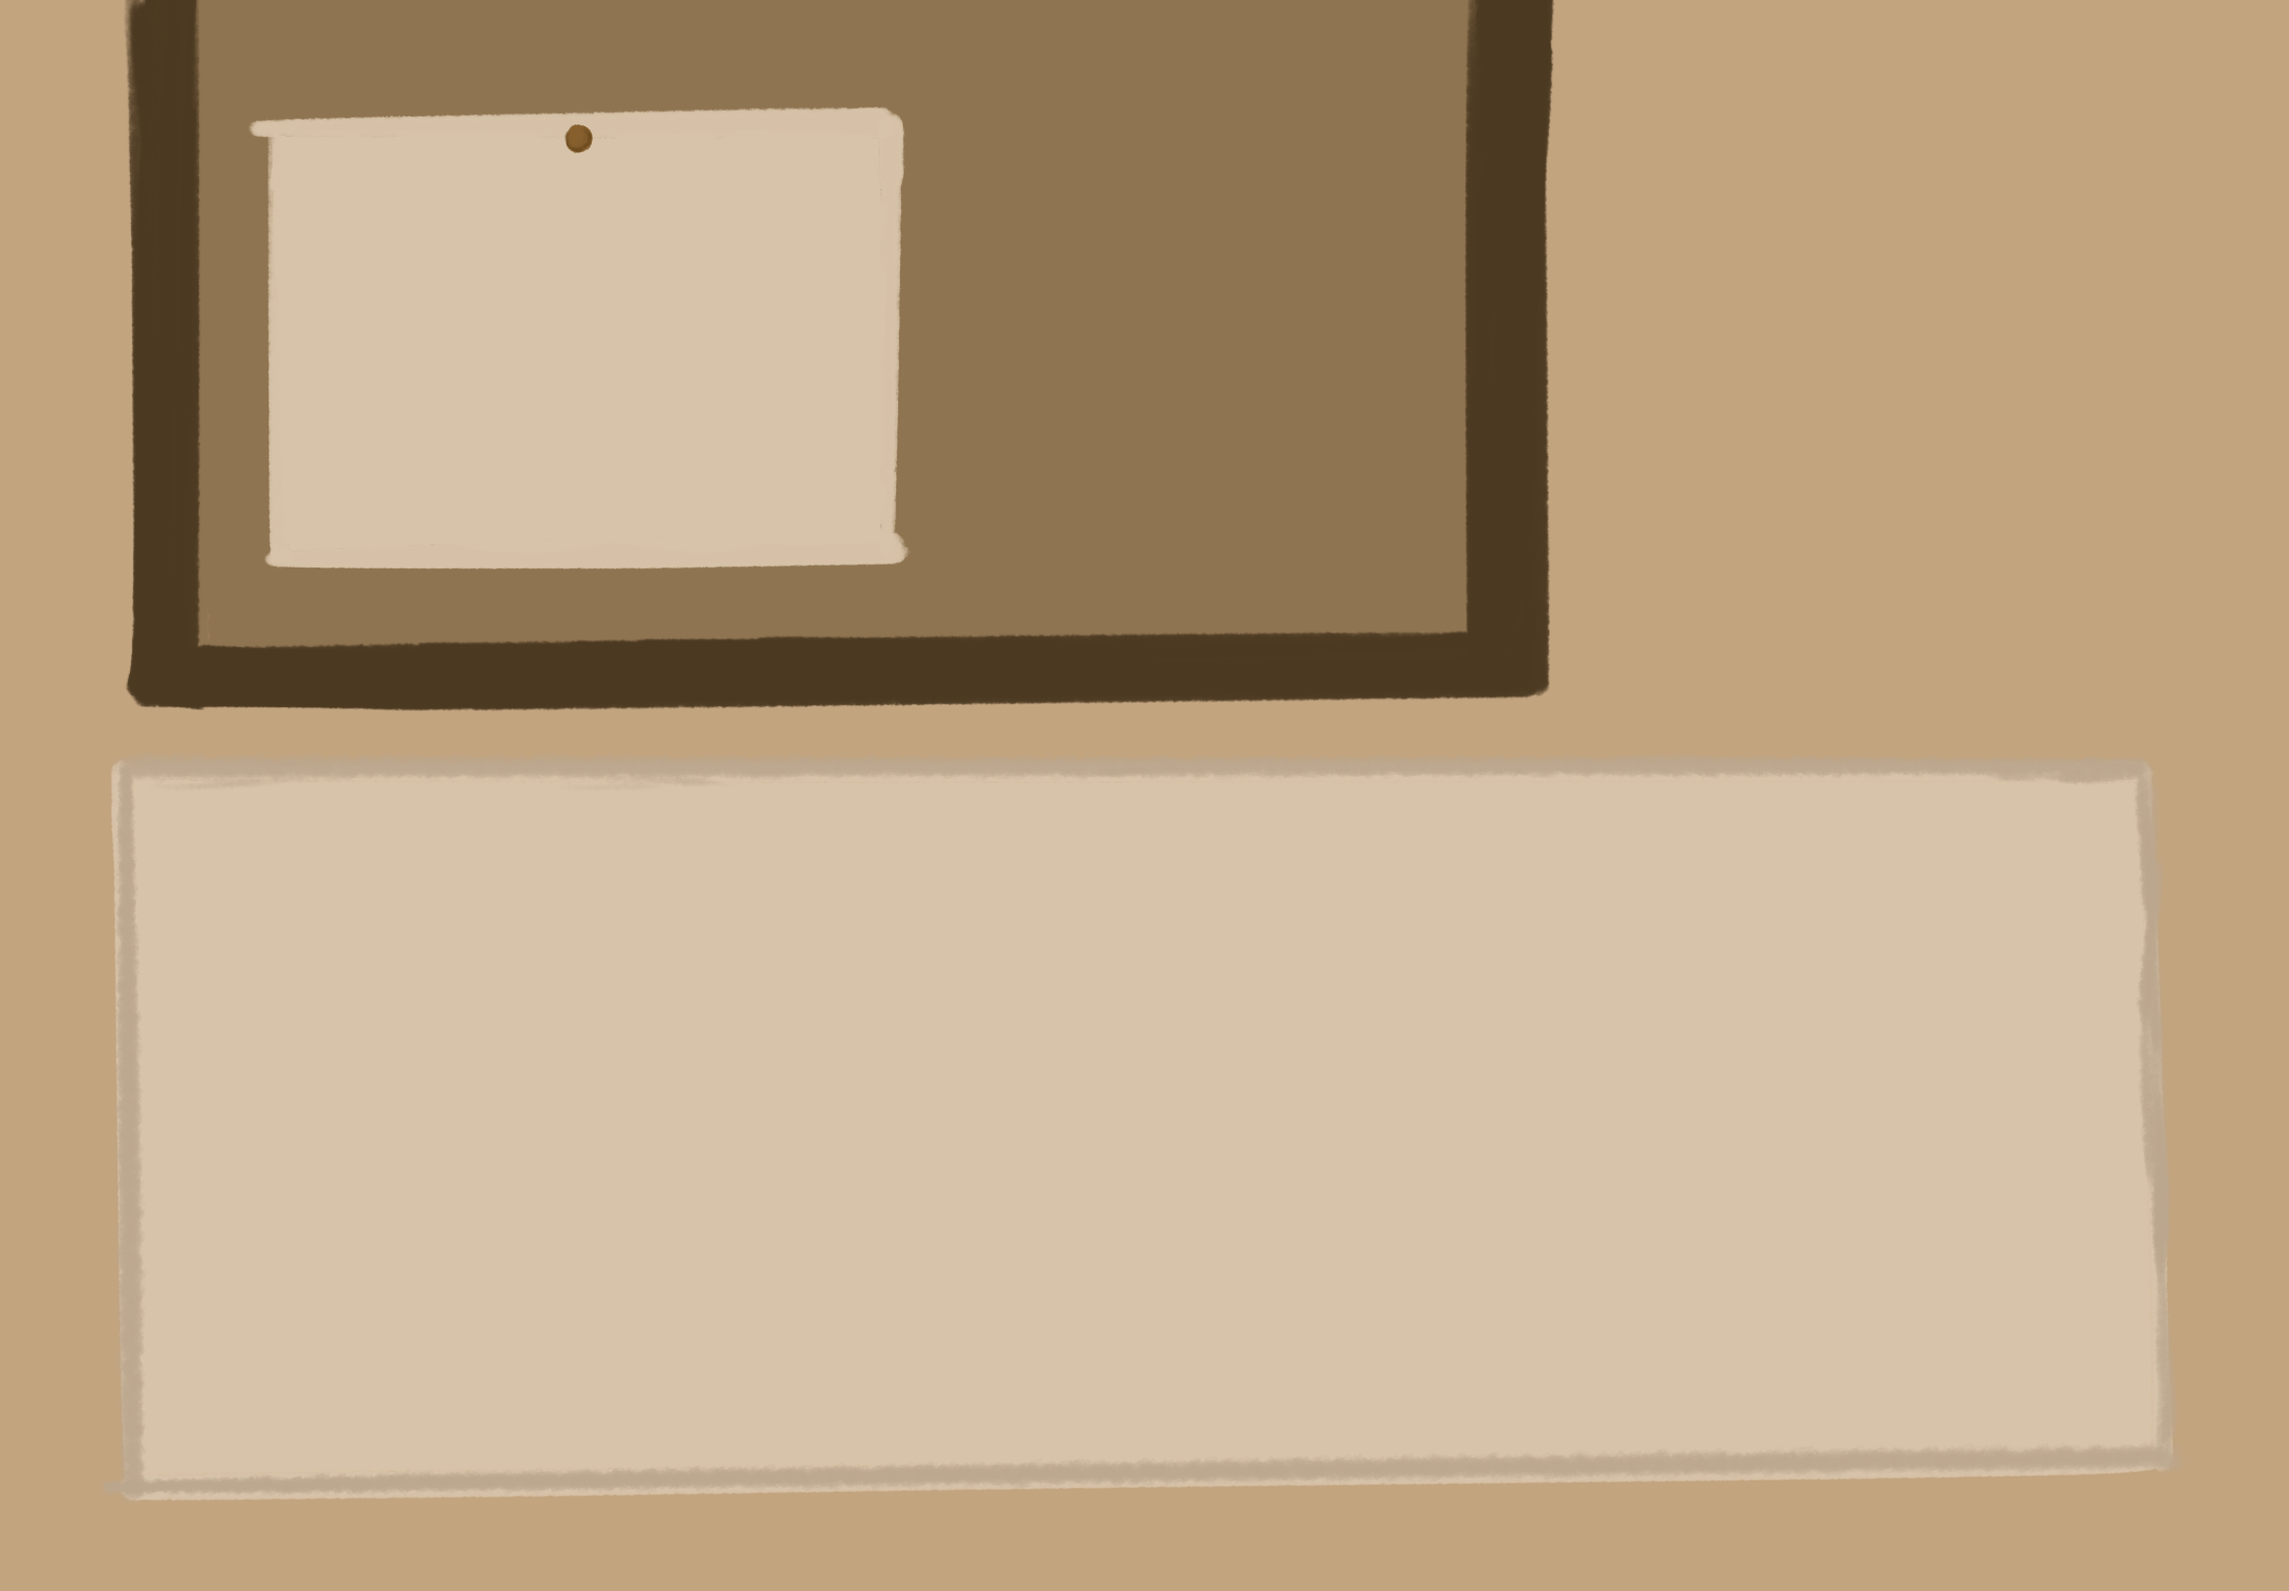
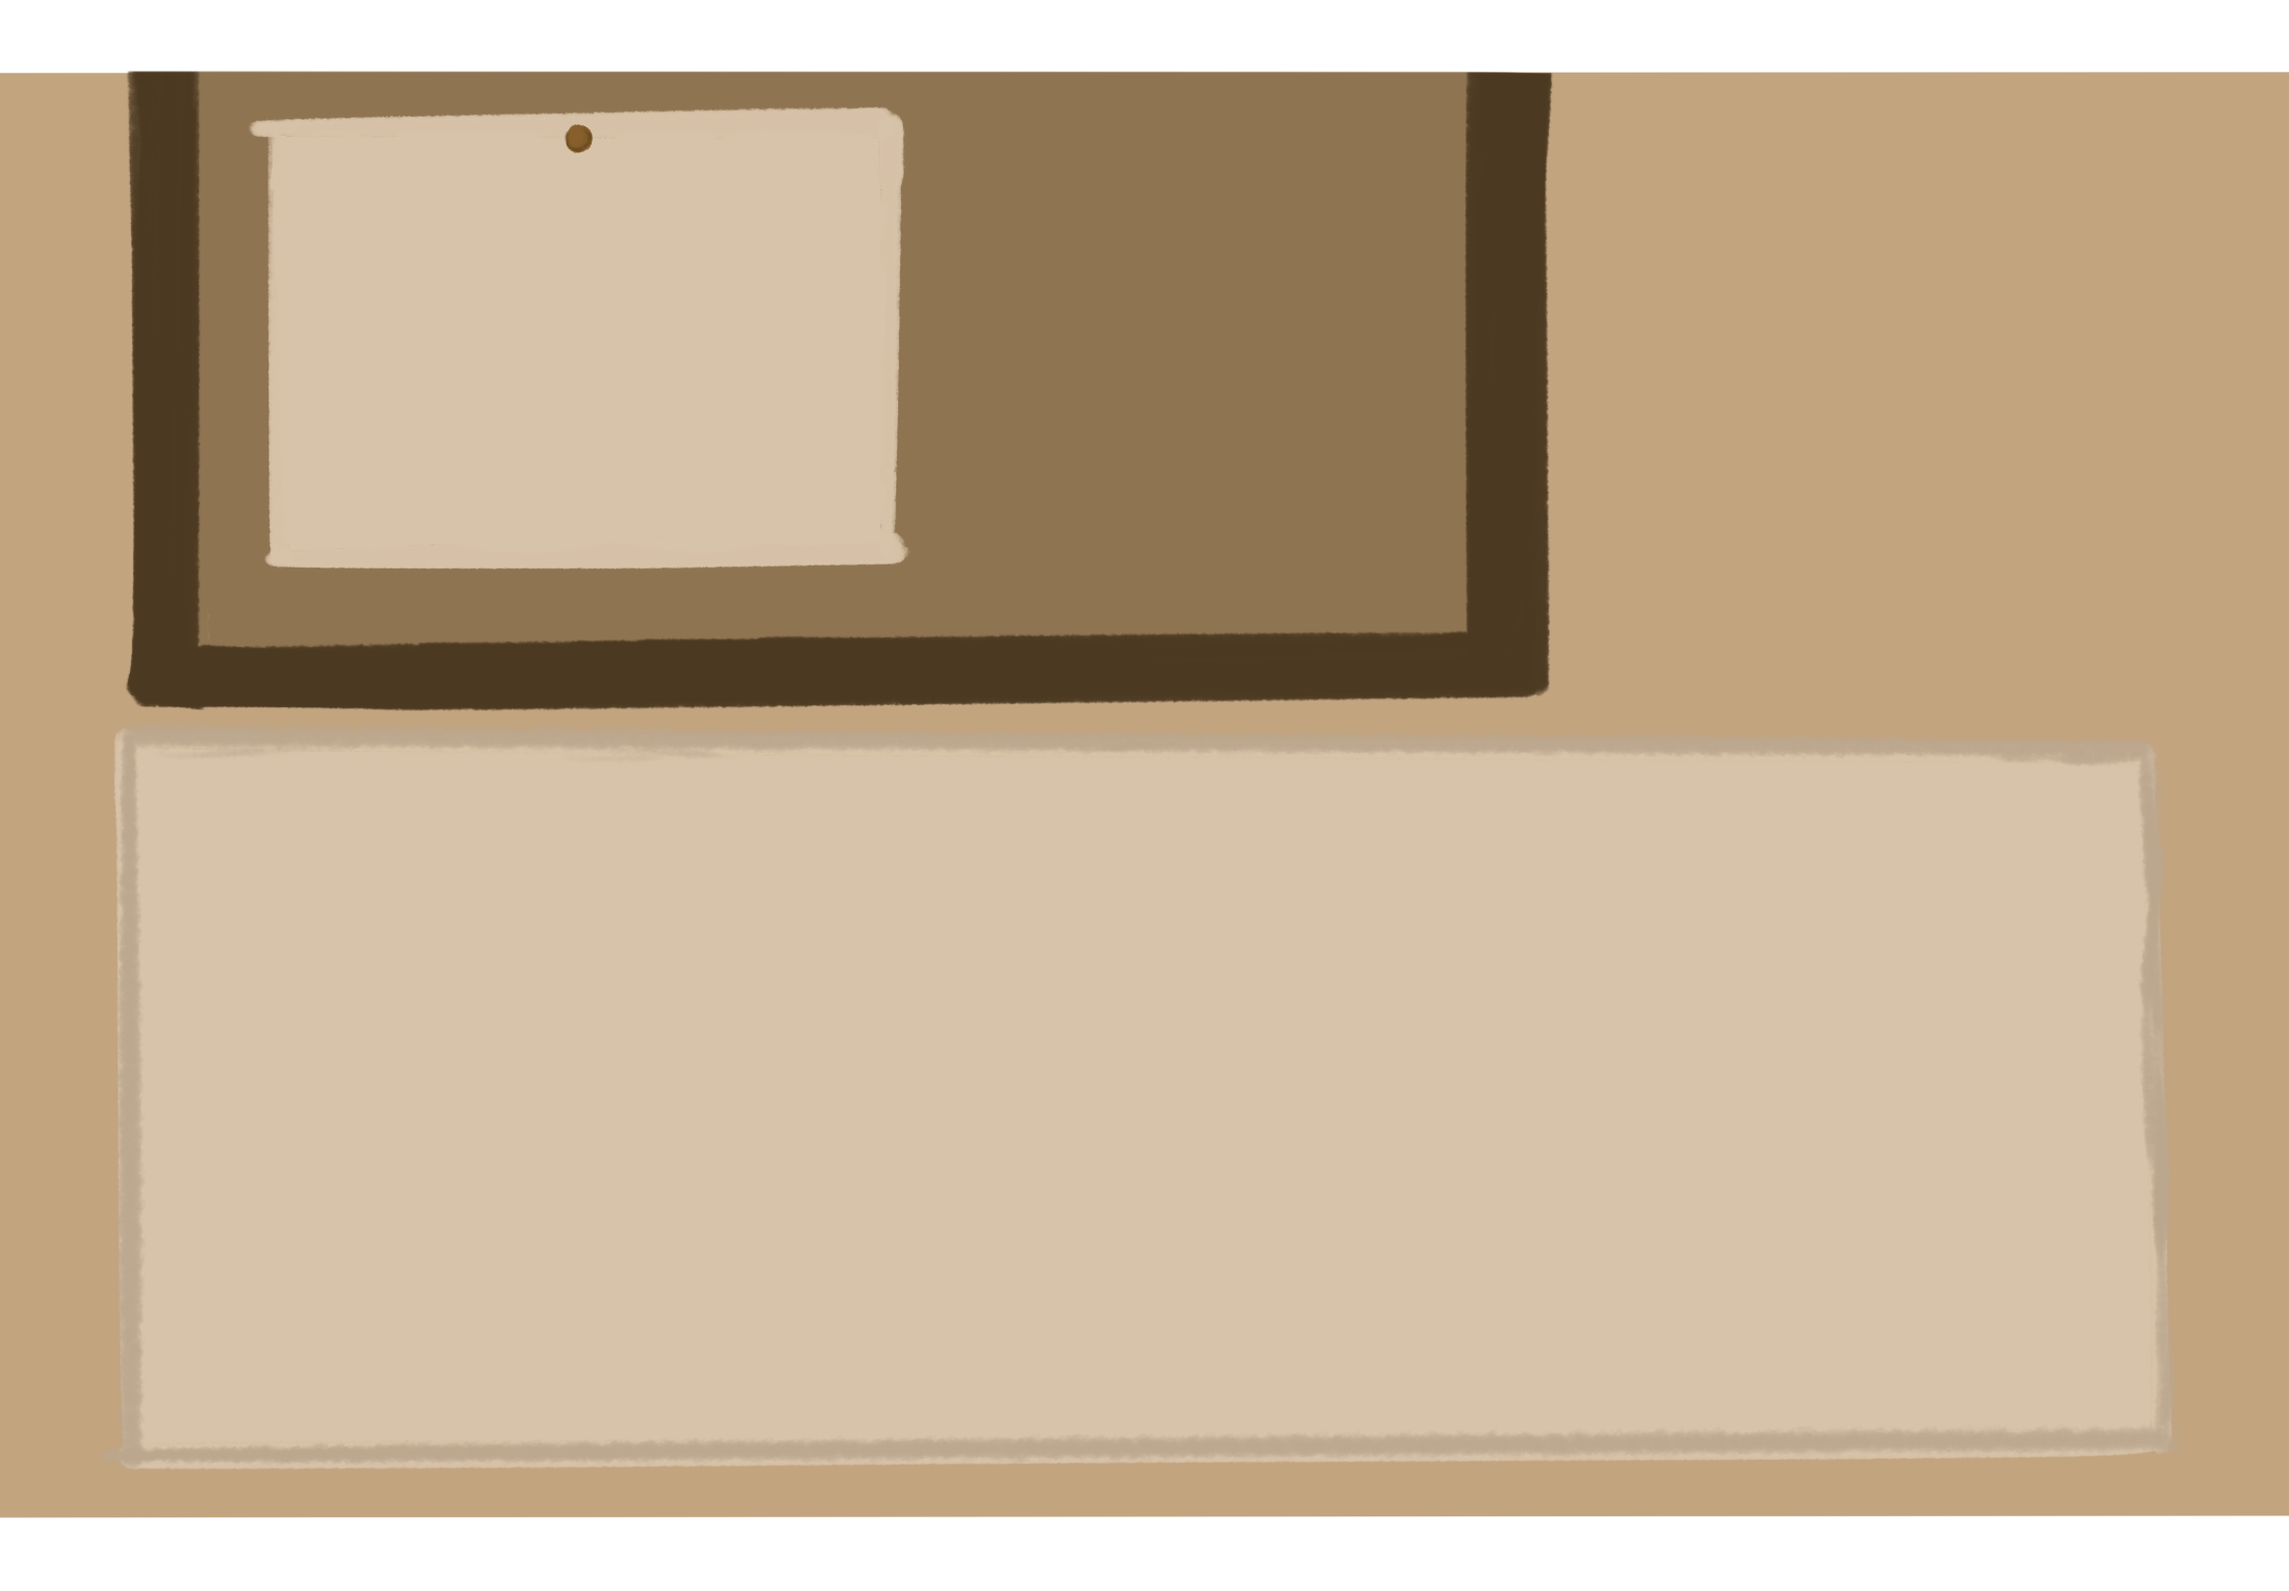
image

Changed region(s): [[0.0, 0.9018, 1.0, 1.0], [0.0, 0.0, 1.0, 0.0622], [0.0309, 0.4665, 0.928, 0.4976]]

diff --git a/style.css b/style.css
@@ -15,7 +15,7 @@ h1 {
 
 .kitchen {
   width: 100%;
-  height: 90vh;
+  height: 100vh;
   background-image: url("img/kitchenBG.png");
   background-repeat: no-repeat;
   background-size: contain;
